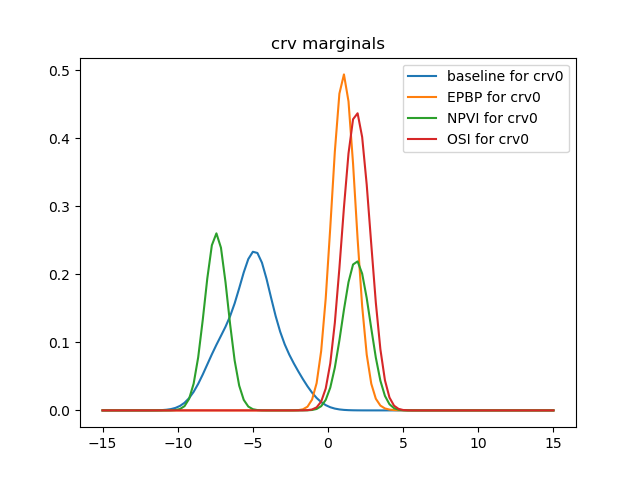
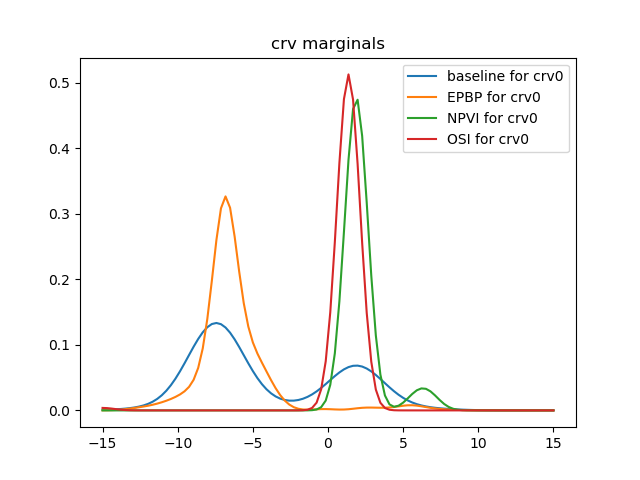
add num_tests = 5 hmln_experiment runs (EPBP, NPVI, OSI) with different seeds (evidence doesn't seem to change)
baseline:
{'kl_err': (0.0, 0.0),
 'mmap_err': (0.0, 0.0),
 'obj': (-2.8526894952356505, 0.0)}
EPBP:
{'kl_err': (3.9152859683343317, 0.7386449288277339),
 'mmap_err': (8.920021856466532, 2.1367147825599866),
 'obj': (-1.0, 0.0)}
NPVI:
{'kl_err': (15.515268703962942, 9.106875919105772),
 'mmap_err': (7.451473342324391, 3.7239465200643704),
 'obj': (-0.33433115608389896, 0.522615658765876)}
OSI:
{'kl_err': (29.23579880162243, 9.434003310384998),
 'mmap_err': (9.312413610758314, 0.0020472761464173524),
 'obj': (-0.5529326678639472, 0.11845513549584648)}

diff --git a/osi/hmln_citation_experiment.py b/osi/hmln_citation_experiment.py
@@ -104,7 +104,7 @@ rel_g.atoms = (atom_cites, atom_paperIn, atom_paper_popularity, atom_topic_popul
 rel_g.param_factors = (f1, f2, f3)
 rel_g.init_nb()
 
-num_tests = 1  # number of times evidence will vary; each time all methods are run to perform conditional inference
+num_tests = 5  # number of times evidence will vary; each time all methods are run to perform conditional inference
 record_fields = [
     'obj',  # this is BFE/-ELBO for variational methods, -logZ for exact baseline
     'mmap_err',  # |argmax p(xi) - argmax q(xi)|, avg over all nodes i
@@ -155,8 +155,8 @@ for test_num in range(num_tests):
 
     all_margs = {algo_name: [None] * len(query_rvs) for algo_name in algo_names}  # for plotting convenience
 
-    # baseline = 'exact'
-    baseline = 'gibbs'
+    baseline = 'exact'
+    # baseline = 'gibbs'
     for a, algo_name in enumerate(algo_names):
         print('####')
         print('test_num', test_num)
